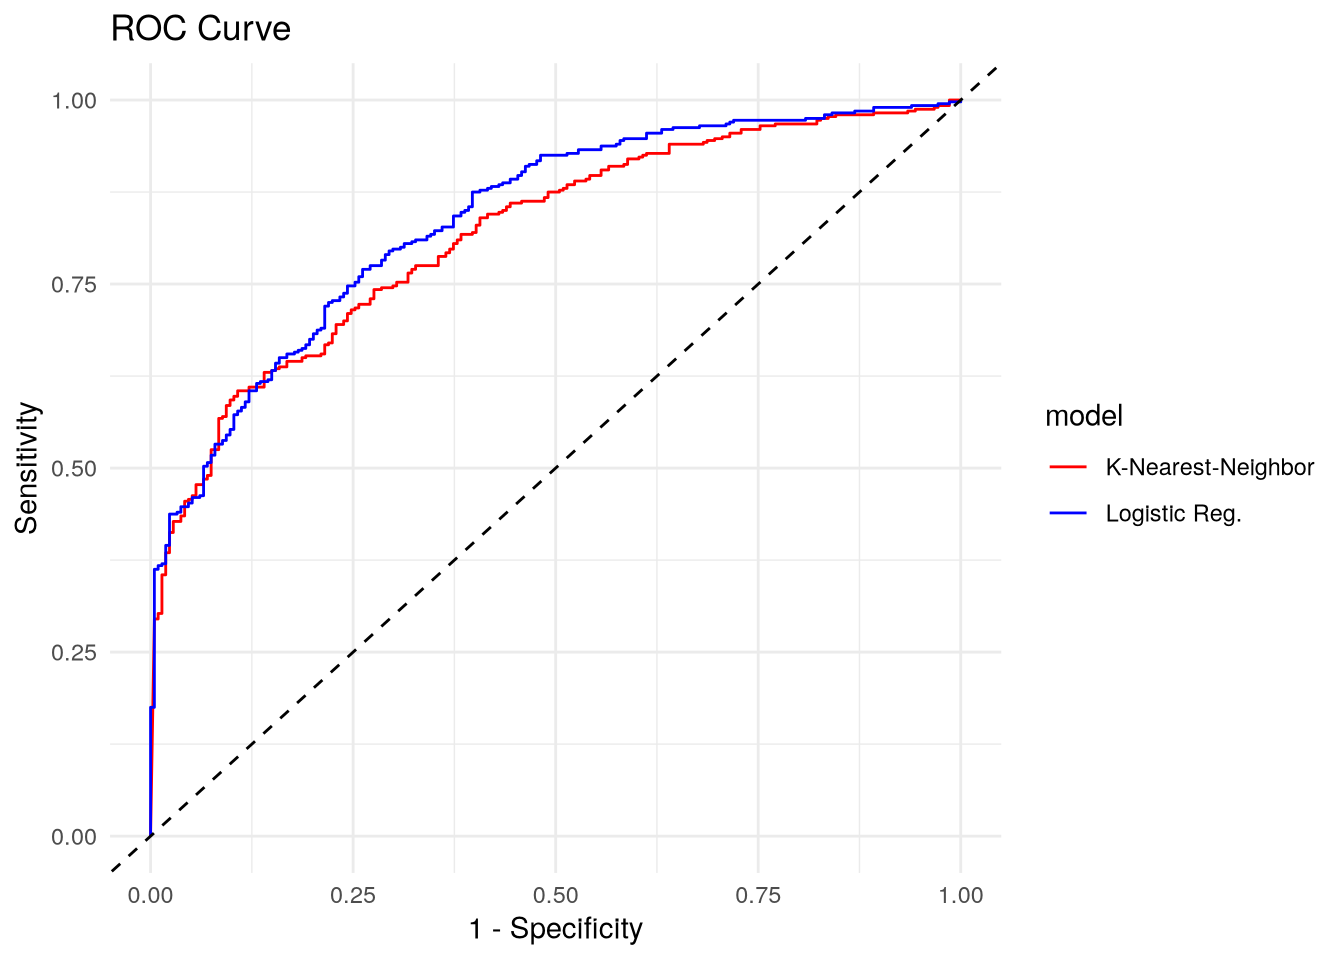
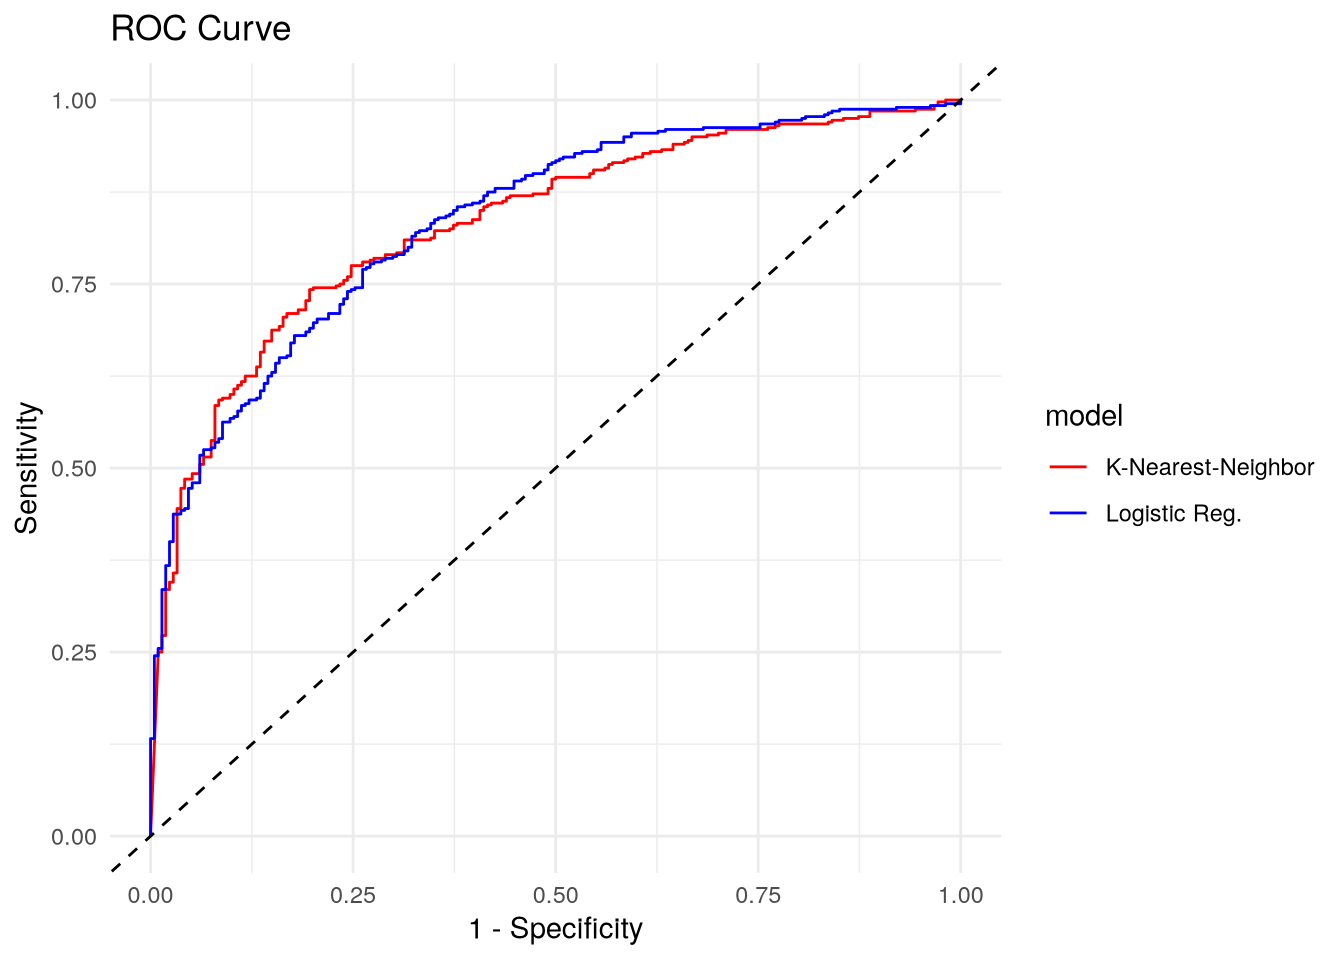
deploy: fd46335112683912a125179e146576d7494bef0c

Changed region(s): [[0.1562, 0.125, 0.5938, 0.4688], [0.0938, 0.4688, 0.1562, 0.7812], [0.5938, 0.0938, 0.7188, 0.125]]

diff --git a/index.html b/index.html
@@ -129,6 +129,7 @@ window.Quarto = {
   <ul class="collapse">
   <li><a href="#receiver-operator-curve" id="toc-receiver-operator-curve" class="nav-link" data-scroll-target="#receiver-operator-curve">Receiver Operator Curve</a></li>
   <li><a href="#scores" id="toc-scores" class="nav-link" data-scroll-target="#scores">Scores</a></li>
+  <li><a href="#confusion-matrix" id="toc-confusion-matrix" class="nav-link" data-scroll-target="#confusion-matrix">Confusion matrix</a></li>
   </ul></li>
   <li><a href="#conclusion" id="toc-conclusion" class="nav-link" data-scroll-target="#conclusion">Conclusion</a></li>
   <li><a href="#references" id="toc-references" class="nav-link" data-scroll-target="#references">References</a></li>
@@ -168,8 +169,8 @@ window.Quarto = {
 <p>The workflow proceeds according to the chart below.</p>
 <div class="cell">
 <div class="cell-output-display">
-<div class="visNetwork html-widget html-fill-item" id="htmlwidget-b9dcf4c11668c5a88f99" style="width:100%;height:464px;"></div>
-<script type="application/json" data-for="htmlwidget-b9dcf4c11668c5a88f99">{"x":{"nodes":{"name":["downloaded_file_info","knn_best_auc","knn_conf_mat","knn_final_fit_pred","knn_last_fit","knn_last_mod","knn_last_workflow","knn_metrics","knn_mod","knn_recipe","knn_res","knn_workflow","lr_accuracy","lr_auc","lr_best","lr_best_auc","lr_conf_mat","lr_last_fit","lr_last_fit_pred","lr_last_mod","lr_last_workflow","lr_model","lr_recipe","lr_reg_grid","lr_res","lr_res_acc","lr_workflow","model_resamples","models","pima_data","pima_data_url","pima_folds","pima_imputed","pima_raw","pima_raw_converted","pima_raw_ol_to_na","pima_split","pima_test","pima_train","plot_imputed_corr","plot_imputed_missing","plot_imputed_outliers","plot_raw_missing","plot_raw_outliers","plot_roc_curve","tbl_imputed_summary_0","tbl_imputed_summary_1","tbl_raw_summary_0","tbl_raw_summary_1","tbl_test_set_results","test_set_results"],"type":["stem","stem","stem","stem","stem","stem","stem","stem","stem","stem","stem","stem","stem","stem","stem","stem","stem","stem","stem","stem","stem","stem","stem","stem","stem","stem","stem","stem","stem","stem","stem","stem","stem","stem","stem","stem","stem","stem","stem","stem","stem","stem","stem","stem","stem","stem","stem","stem","stem","stem","stem"],"description":[null,null,null,null,null,null,null,null,null,null,null,null,null,null,null,null,null,null,null,null,null,null,null,null,null,null,null,null,null,null,null,null,null,null,null,null,null,null,null,null,null,null,null,null,null,null,null,null,null,null,null],"status":["uptodate","uptodate","uptodate","uptodate","uptodate","uptodate","uptodate","uptodate","uptodate","uptodate","uptodate","uptodate","uptodate","uptodate","uptodate","uptodate","uptodate","uptodate","uptodate","uptodate","uptodate","uptodate","uptodate","uptodate","uptodate","uptodate","uptodate","uptodate","uptodate","uptodate","uptodate","uptodate","uptodate","uptodate","uptodate","uptodate","uptodate","uptodate","uptodate","uptodate","uptodate","uptodate","uptodate","uptodate","uptodate","uptodate","uptodate","uptodate","uptodate","uptodate","uptodate"],"seconds":[0.09,0.02,0.003,0,0.24,0.001,0.001,0,0.001,0.005,31.698,0.001,0.002,0.075,0.024,0.019,0.002,0.157,0.001,0.001,0.001,0.011,0.013,0.003,1.991,0.001,0.005,0,0.046,0.224,0.001,0.008,0.132,0.073,0.033,0.005,0.019,0.001,0.001,0.037,0.039,0.022,0.125,0.07000000000000001,0.01,0.012,0.011,0.018,0.01,0.007,0],"bytes":[304,258,230,298,133727,412,11215,2885,409,10684,181295,11241,222,7200,218,218,226,131817,301,519,12268,388,11698,438,1287885,3265,12168,1470375,11746,23105,0,14605,12782,12528,12845,12762,14475,3249,10112,96793,1040183,1122961,992906,1125247,1198032,633,624,636,635,332,247170],"branches":[null,null,null,null,null,null,null,null,null,null,null,null,null,null,null,null,null,null,null,null,null,null,null,null,null,null,null,null,null,null,null,null,null,null,null,null,null,null,null,null,null,null,null,null,null,null,null,null,null,null,null],"label":["downloaded_file_info","knn_best_auc","knn_conf_mat","knn_final_fit_pred","knn_last_fit","knn_last_mod","knn_last_workflow","knn_metrics","knn_mod","knn_recipe","knn_res","knn_workflow","lr_accuracy","lr_auc","lr_best","lr_best_auc","lr_conf_mat","lr_last_fit","lr_last_fit_pred","lr_last_mod","lr_last_workflow","lr_model","lr_recipe","lr_reg_grid","lr_res","lr_res_acc","lr_workflow","model_resamples","models","pima_data","pima_data_url","pima_folds","pima_imputed","pima_raw","pima_raw_converted","pima_raw_ol_to_na","pima_split","pima_test","pima_train","plot_imputed_corr","plot_imputed_missing","plot_imputed_outliers","plot_raw_missing","plot_raw_outliers","plot_roc_curve","tbl_imputed_summary_0","tbl_imputed_summary_1","tbl_raw_summary_0","tbl_raw_summary_1","tbl_test_set_results","test_set_results"],"color":["#354823","#354823","#354823","#354823","#354823","#354823","#354823","#354823","#354823","#354823","#354823","#354823","#354823","#354823","#354823","#354823","#354823","#354823","#354823","#354823","#354823","#354823","#354823","#354823","#354823","#354823","#354823","#354823","#354823","#354823","#354823","#354823","#354823","#354823","#354823","#354823","#354823","#354823","#354823","#354823","#354823","#354823","#354823","#354823","#354823","#354823","#354823","#354823","#354823","#354823","#354823"],"id":["downloaded_file_info","knn_best_auc","knn_conf_mat","knn_final_fit_pred","knn_last_fit","knn_last_mod","knn_last_workflow","knn_metrics","knn_mod","knn_recipe","knn_res","knn_workflow","lr_accuracy","lr_auc","lr_best","lr_best_auc","lr_conf_mat","lr_last_fit","lr_last_fit_pred","lr_last_mod","lr_last_workflow","lr_model","lr_recipe","lr_reg_grid","lr_res","lr_res_acc","lr_workflow","model_resamples","models","pima_data","pima_data_url","pima_folds","pima_imputed","pima_raw","pima_raw_converted","pima_raw_ol_to_na","pima_split","pima_test","pima_train","plot_imputed_corr","plot_imputed_missing","plot_imputed_outliers","plot_raw_missing","plot_raw_outliers","plot_roc_curve","tbl_imputed_summary_0","tbl_imputed_summary_1","tbl_raw_summary_0","tbl_raw_summary_1","tbl_test_set_results","test_set_results"],"level":[3,13,14,13,12,1,11,13,1,9,11,10,17,13,12,13,16,15,16,13,14,1,9,1,11,16,10,12,14,2,1,9,6,3,4,5,7,8,8,7,7,7,5,5,15,7,7,5,5,17,16],"shape":["dot","dot","dot","dot","dot","dot","dot","dot","dot","dot","dot","dot","dot","dot","dot","dot","dot","dot","dot","dot","dot","dot","dot","dot","dot","dot","dot","dot","dot","dot","dot","dot","dot","dot","dot","dot","dot","dot","dot","dot","dot","dot","dot","dot","dot","dot","dot","dot","dot","dot","dot"]},"edges":{"from":["pima_data","model_resamples","knn_metrics","knn_last_fit","pima_split","knn_last_workflow","knn_last_mod","knn_workflow","knn_last_fit","pima_train","knn_workflow","pima_folds","knn_mod","knn_recipe","lr_res_acc","lr_best","lr_res","lr_res","model_resamples","lr_last_fit","lr_last_workflow","pima_split","lr_last_fit","lr_best","lr_last_mod","lr_workflow","pima_train","pima_folds","lr_reg_grid","lr_workflow","lr_last_fit","lr_model","lr_recipe","knn_res","lr_res","knn_best_auc","lr_best_auc","model_resamples","pima_data_url","pima_train","pima_raw_ol_to_na","pima_data","pima_raw","pima_raw_converted","pima_imputed","pima_split","pima_split","pima_imputed","pima_imputed","pima_imputed","pima_raw_converted","pima_raw_converted","models","pima_imputed","pima_imputed","pima_raw_converted","pima_raw_converted","test_set_results","lr_last_fit","knn_last_fit"],"to":["downloaded_file_info","knn_best_auc","knn_conf_mat","knn_final_fit_pred","knn_last_fit","knn_last_fit","knn_last_workflow","knn_last_workflow","knn_metrics","knn_recipe","knn_res","knn_res","knn_workflow","knn_workflow","lr_accuracy","lr_auc","lr_auc","lr_best","lr_best_auc","lr_conf_mat","lr_last_fit","lr_last_fit","lr_last_fit_pred","lr_last_mod","lr_last_workflow","lr_last_workflow","lr_recipe","lr_res","lr_res","lr_res","lr_res_acc","lr_workflow","lr_workflow","model_resamples","model_resamples","models","models","models","pima_data","pima_folds","pima_imputed","pima_raw","pima_raw_converted","pima_raw_ol_to_na","pima_split","pima_test","pima_train","plot_imputed_corr","plot_imputed_missing","plot_imputed_outliers","plot_raw_missing","plot_raw_outliers","plot_roc_curve","tbl_imputed_summary_0","tbl_imputed_summary_1","tbl_raw_summary_0","tbl_raw_summary_1","tbl_test_set_results","test_set_results","test_set_results"],"color":["#354823","#354823","#354823","#354823","#354823","#354823","#354823","#354823","#354823","#354823","#354823","#354823","#354823","#354823","#354823","#354823","#354823","#354823","#354823","#354823","#354823","#354823","#354823","#354823","#354823","#354823","#354823","#354823","#354823","#354823","#354823","#354823","#354823","#354823","#354823","#354823","#354823","#354823","#354823","#354823","#354823","#354823","#354823","#354823","#354823","#354823","#354823","#354823","#354823","#354823","#354823","#354823","#354823","#354823","#354823","#354823","#354823","#354823","#354823","#354823"],"arrows":["to","to","to","to","to","to","to","to","to","to","to","to","to","to","to","to","to","to","to","to","to","to","to","to","to","to","to","to","to","to","to","to","to","to","to","to","to","to","to","to","to","to","to","to","to","to","to","to","to","to","to","to","to","to","to","to","to","to","to","to"]},"nodesToDataframe":true,"edgesToDataframe":true,"options":{"width":"100%","height":"100%","nodes":{"shape":"dot","physics":false},"manipulation":{"enabled":false},"edges":{"smooth":{"type":"cubicBezier","forceDirection":"horizontal"}},"physics":{"stabilization":false},"interaction":{"zoomSpeed":0.5},"layout":{"hierarchical":{"enabled":true,"levelSeparation":150,"direction":"LR"}}},"groups":null,"width":null,"height":null,"idselection":{"enabled":false,"style":"width: 150px; height: 26px","useLabels":true,"main":"Select by id"},"byselection":{"enabled":false,"style":"width: 150px; height: 26px","multiple":false,"hideColor":"rgba(200,200,200,0.5)","highlight":false},"main":{"text":"","style":"font-family:Georgia, Times New Roman, Times, serif;font-weight:bold;font-size:20px;text-align:center;"},"submain":null,"footer":null,"background":"rgba(0, 0, 0, 0)","highlight":{"enabled":true,"hoverNearest":false,"degree":{"from":1,"to":1},"algorithm":"hierarchical","hideColor":"rgba(200,200,200,0.5)","labelOnly":true},"collapse":{"enabled":true,"fit":false,"resetHighlight":true,"clusterOptions":null,"keepCoord":true,"labelSuffix":"(cluster)"},"legend":{"width":0.2,"useGroups":false,"position":"right","ncol":1,"stepX":100,"stepY":100,"zoom":true,"nodes":{"label":["Up to date","Stem"],"color":["#354823","#899DA4"],"shape":["dot","dot"]},"nodesToDataframe":true},"tooltipStay":300,"tooltipStyle":"position: fixed;visibility:hidden;padding: 5px;white-space: nowrap;font-family: verdana;font-size:14px;font-color:#000000;background-color: #f5f4ed;-moz-border-radius: 3px;-webkit-border-radius: 3px;border-radius: 3px;border: 1px solid #808074;box-shadow: 3px 3px 10px rgba(0, 0, 0, 0.2);"},"evals":[],"jsHooks":[]}</script>
+<div class="visNetwork html-widget html-fill-item" id="htmlwidget-4b864320b20c1856ac39" style="width:100%;height:464px;"></div>
+<script type="application/json" data-for="htmlwidget-4b864320b20c1856ac39">{"x":{"nodes":{"name":["downloaded_file_info","knn_best_auc","lr_best_auc","model_resamples","models","pima_data","pima_data_url","pima_folds","pima_imputed","pima_raw","pima_raw_converted","pima_raw_ol_to_na","pima_split","pima_test","pima_train","plot_imputed_corr","plot_imputed_missing","plot_imputed_outliers","plot_raw_missing","plot_raw_outliers","plot_roc_curve","results_knn","results_log_reg","tbl_cm_knn","tbl_cm_log_reg","tbl_imputed_summary_0","tbl_imputed_summary_1","tbl_raw_summary_0","tbl_raw_summary_1","tbl_results_knn","tbl_results_log_reg","tbl_test_set_results","test_set_results","tuned_knn","tuned_log_reg"],"type":["stem","stem","stem","stem","stem","stem","stem","stem","stem","stem","stem","stem","stem","stem","stem","stem","stem","stem","stem","stem","stem","stem","stem","stem","stem","stem","stem","stem","stem","stem","stem","stem","stem","stem","stem"],"description":[null,null,null,null,null,null,null,null,null,null,null,null,null,null,null,null,null,null,null,null,null,null,null,null,null,null,null,null,null,null,null,null,null,null,null],"status":["uptodate","uptodate","uptodate","uptodate","uptodate","uptodate","uptodate","uptodate","uptodate","uptodate","uptodate","uptodate","uptodate","uptodate","uptodate","uptodate","uptodate","uptodate","uptodate","uptodate","uptodate","uptodate","uptodate","uptodate","uptodate","uptodate","uptodate","uptodate","uptodate","uptodate","uptodate","uptodate","uptodate","uptodate","uptodate"],"seconds":[0.421,0.02,0.018,0.001,0.051,0.379,0.001,0.008,0.134,0.06900000000000001,0.027,0.005,0.011,0.002,0.001,0.037,0.037,0.02,0.146,0.06,0.01,0.274,0.157,0.003,0.002,0.012,0.019,0.017,0.01,0,0.001,0.007,0,33.118,1.754],"bytes":[305,258,219,1541345,11840,23105,0,14534,12782,12528,12845,12762,14476,3206,10031,96761,993591,1035129,945432,1036941,2459708,332450,1433129,227,227,633,624,636,635,299,301,336,1739245,365028,1374220],"branches":[null,null,null,null,null,null,null,null,null,null,null,null,null,null,null,null,null,null,null,null,null,null,null,null,null,null,null,null,null,null,null,null,null,null,null],"label":["downloaded_file_info","knn_best_auc","lr_best_auc","model_resamples","models","pima_data","pima_data_url","pima_folds","pima_imputed","pima_raw","pima_raw_converted","pima_raw_ol_to_na","pima_split","pima_test","pima_train","plot_imputed_corr","plot_imputed_missing","plot_imputed_outliers","plot_raw_missing","plot_raw_outliers","plot_roc_curve","results_knn","results_log_reg","tbl_cm_knn","tbl_cm_log_reg","tbl_imputed_summary_0","tbl_imputed_summary_1","tbl_raw_summary_0","tbl_raw_summary_1","tbl_results_knn","tbl_results_log_reg","tbl_test_set_results","test_set_results","tuned_knn","tuned_log_reg"],"color":["#354823","#354823","#354823","#354823","#354823","#354823","#354823","#354823","#354823","#354823","#354823","#354823","#354823","#354823","#354823","#354823","#354823","#354823","#354823","#354823","#354823","#354823","#354823","#354823","#354823","#354823","#354823","#354823","#354823","#354823","#354823","#354823","#354823","#354823","#354823"],"id":["downloaded_file_info","knn_best_auc","lr_best_auc","model_resamples","models","pima_data","pima_data_url","pima_folds","pima_imputed","pima_raw","pima_raw_converted","pima_raw_ol_to_na","pima_split","pima_test","pima_train","plot_imputed_corr","plot_imputed_missing","plot_imputed_outliers","plot_raw_missing","plot_raw_outliers","plot_roc_curve","results_knn","results_log_reg","tbl_cm_knn","tbl_cm_log_reg","tbl_imputed_summary_0","tbl_imputed_summary_1","tbl_raw_summary_0","tbl_raw_summary_1","tbl_results_knn","tbl_results_log_reg","tbl_test_set_results","test_set_results","tuned_knn","tuned_log_reg"],"level":[3,12,12,11,13,2,1,9,6,3,4,5,7,8,8,7,7,7,5,5,14,11,11,12,12,7,7,5,5,12,12,13,12,10,10],"shape":["dot","dot","dot","dot","dot","dot","dot","dot","dot","dot","dot","dot","dot","dot","dot","dot","dot","dot","dot","dot","dot","dot","dot","dot","dot","dot","dot","dot","dot","dot","dot","dot","dot","dot","dot"]},"edges":{"from":["pima_data","model_resamples","model_resamples","tuned_knn","tuned_log_reg","knn_best_auc","lr_best_auc","model_resamples","pima_data_url","pima_train","pima_raw_ol_to_na","pima_data","pima_raw","pima_raw_converted","pima_imputed","pima_split","pima_split","pima_imputed","pima_imputed","pima_imputed","pima_raw_converted","pima_raw_converted","models","pima_split","tuned_knn","pima_split","tuned_log_reg","results_knn","results_log_reg","pima_imputed","pima_imputed","pima_raw_converted","pima_raw_converted","results_knn","results_log_reg","test_set_results","results_knn","results_log_reg","pima_folds","pima_train","pima_folds","pima_train"],"to":["downloaded_file_info","knn_best_auc","lr_best_auc","model_resamples","model_resamples","models","models","models","pima_data","pima_folds","pima_imputed","pima_raw","pima_raw_converted","pima_raw_ol_to_na","pima_split","pima_test","pima_train","plot_imputed_corr","plot_imputed_missing","plot_imputed_outliers","plot_raw_missing","plot_raw_outliers","plot_roc_curve","results_knn","results_knn","results_log_reg","results_log_reg","tbl_cm_knn","tbl_cm_log_reg","tbl_imputed_summary_0","tbl_imputed_summary_1","tbl_raw_summary_0","tbl_raw_summary_1","tbl_results_knn","tbl_results_log_reg","tbl_test_set_results","test_set_results","test_set_results","tuned_knn","tuned_knn","tuned_log_reg","tuned_log_reg"],"color":["#354823","#354823","#354823","#354823","#354823","#354823","#354823","#354823","#354823","#354823","#354823","#354823","#354823","#354823","#354823","#354823","#354823","#354823","#354823","#354823","#354823","#354823","#354823","#354823","#354823","#354823","#354823","#354823","#354823","#354823","#354823","#354823","#354823","#354823","#354823","#354823","#354823","#354823","#354823","#354823","#354823","#354823"],"arrows":["to","to","to","to","to","to","to","to","to","to","to","to","to","to","to","to","to","to","to","to","to","to","to","to","to","to","to","to","to","to","to","to","to","to","to","to","to","to","to","to","to","to"]},"nodesToDataframe":true,"edgesToDataframe":true,"options":{"width":"100%","height":"100%","nodes":{"shape":"dot","physics":false},"manipulation":{"enabled":false},"edges":{"smooth":{"type":"cubicBezier","forceDirection":"horizontal"}},"physics":{"stabilization":false},"interaction":{"zoomSpeed":0.5},"layout":{"hierarchical":{"enabled":true,"levelSeparation":150,"direction":"LR"}}},"groups":null,"width":null,"height":null,"idselection":{"enabled":false,"style":"width: 150px; height: 26px","useLabels":true,"main":"Select by id"},"byselection":{"enabled":false,"style":"width: 150px; height: 26px","multiple":false,"hideColor":"rgba(200,200,200,0.5)","highlight":false},"main":{"text":"","style":"font-family:Georgia, Times New Roman, Times, serif;font-weight:bold;font-size:20px;text-align:center;"},"submain":null,"footer":null,"background":"rgba(0, 0, 0, 0)","highlight":{"enabled":true,"hoverNearest":false,"degree":{"from":1,"to":1},"algorithm":"hierarchical","hideColor":"rgba(200,200,200,0.5)","labelOnly":true},"collapse":{"enabled":true,"fit":false,"resetHighlight":true,"clusterOptions":null,"keepCoord":true,"labelSuffix":"(cluster)"},"legend":{"width":0.2,"useGroups":false,"position":"right","ncol":1,"stepX":100,"stepY":100,"zoom":true,"nodes":{"label":["Up to date","Stem"],"color":["#354823","#899DA4"],"shape":["dot","dot"]},"nodesToDataframe":true},"tooltipStay":300,"tooltipStyle":"position: fixed;visibility:hidden;padding: 5px;white-space: nowrap;font-family: verdana;font-size:14px;font-color:#000000;background-color: #f5f4ed;-moz-border-radius: 3px;-webkit-border-radius: 3px;border-radius: 3px;border: 1px solid #808074;box-shadow: 3px 3px 10px rgba(0, 0, 0, 0.2);"},"evals":[],"jsHooks":[]}</script>
 </div>
 </div>
 </section>
@@ -202,15 +203,15 @@ window.Quarto = {
 </tr>
 <tr class="even">
 <td style="text-align: left;">mtime</td>
-<td style="text-align: left;">2025-05-08 11:23:00</td>
+<td style="text-align: left;">2025-05-09 01:15:08</td>
 </tr>
 <tr class="odd">
 <td style="text-align: left;">ctime</td>
-<td style="text-align: left;">2025-05-08 11:23:00</td>
+<td style="text-align: left;">2025-05-09 01:15:08</td>
 </tr>
 <tr class="even">
 <td style="text-align: left;">atime</td>
-<td style="text-align: left;">2025-05-08 11:23:00</td>
+<td style="text-align: left;">2025-05-09 01:15:08</td>
 </tr>
 <tr class="odd">
 <td style="text-align: left;">uid</td>
@@ -912,37 +913,37 @@ p = \frac{1}{1 + \exp(-z)}
 <td style="text-align: left;">lr</td>
 <td style="text-align: left;">roc_auc</td>
 <td style="text-align: left;">binary</td>
-<td style="text-align: right;">0.8405556</td>
+<td style="text-align: right;">0.8420370</td>
 </tr>
 <tr class="even">
 <td style="text-align: left;">knn</td>
 <td style="text-align: left;">roc_auc</td>
 <td style="text-align: left;">binary</td>
-<td style="text-align: right;">0.8370370</td>
-</tr>
-<tr class="odd">
-<td style="text-align: left;">lr</td>
-<td style="text-align: left;">brier_class</td>
-<td style="text-align: left;">binary</td>
-<td style="text-align: right;">0.1539240</td>
-</tr>
-<tr class="even">
-<td style="text-align: left;">knn</td>
-<td style="text-align: left;">brier_class</td>
-<td style="text-align: left;">binary</td>
-<td style="text-align: right;">0.1524704</td>
+<td style="text-align: right;">0.7785185</td>
 </tr>
 <tr class="odd">
 <td style="text-align: left;">knn</td>
-<td style="text-align: left;">accuracy</td>
+<td style="text-align: left;">brier_class</td>
 <td style="text-align: left;">binary</td>
-<td style="text-align: right;">0.7727273</td>
+<td style="text-align: right;">0.1816225</td>
 </tr>
 <tr class="even">
 <td style="text-align: left;">lr</td>
+<td style="text-align: left;">brier_class</td>
+<td style="text-align: left;">binary</td>
+<td style="text-align: right;">0.1517258</td>
+</tr>
+<tr class="odd">
+<td style="text-align: left;">lr</td>
 <td style="text-align: left;">accuracy</td>
 <td style="text-align: left;">binary</td>
-<td style="text-align: right;">0.7402597</td>
+<td style="text-align: right;">0.7662338</td>
+</tr>
+<tr class="even">
+<td style="text-align: left;">knn</td>
+<td style="text-align: left;">accuracy</td>
+<td style="text-align: left;">binary</td>
+<td style="text-align: right;">0.7142857</td>
 </tr>
 </tbody>
 </table>
@@ -952,10 +953,35 @@ p = \frac{1}{1 + \exp(-z)}
 </div>
 </div>
 </section>
+<section id="confusion-matrix" class="level2">
+<h2 class="anchored" data-anchor-id="confusion-matrix">Confusion matrix</h2>
+<section id="knn-1" class="level3">
+<h3 class="anchored" data-anchor-id="knn-1">KNN</h3>
+<div class="cell">
+<div class="cell-output cell-output-stdout">
+<pre><code>             Truth
+Prediction    nondiabetic diabetic
+  nondiabetic          84       28
+  diabetic             16       26</code></pre>
+</div>
+</div>
+</section>
+<section id="logistic-regression-1" class="level3">
+<h3 class="anchored" data-anchor-id="logistic-regression-1">Logistic Regression</h3>
+<div class="cell">
+<div class="cell-output cell-output-stdout">
+<pre><code>             Truth
+Prediction    nondiabetic diabetic
+  nondiabetic          86       22
+  diabetic             14       32</code></pre>
+</div>
+</div>
+</section>
+</section>
 </section>
 <section id="conclusion" class="level1">
 <h1>Conclusion</h1>
-<p><em>Report generated at 2025-05-08 11:24:00.400899</em></p>
+<p><em>Report generated at 2025-05-09 01:16:11.567601</em></p>
 </section>
 <section id="references" class="level1">
 <h1>References</h1>
